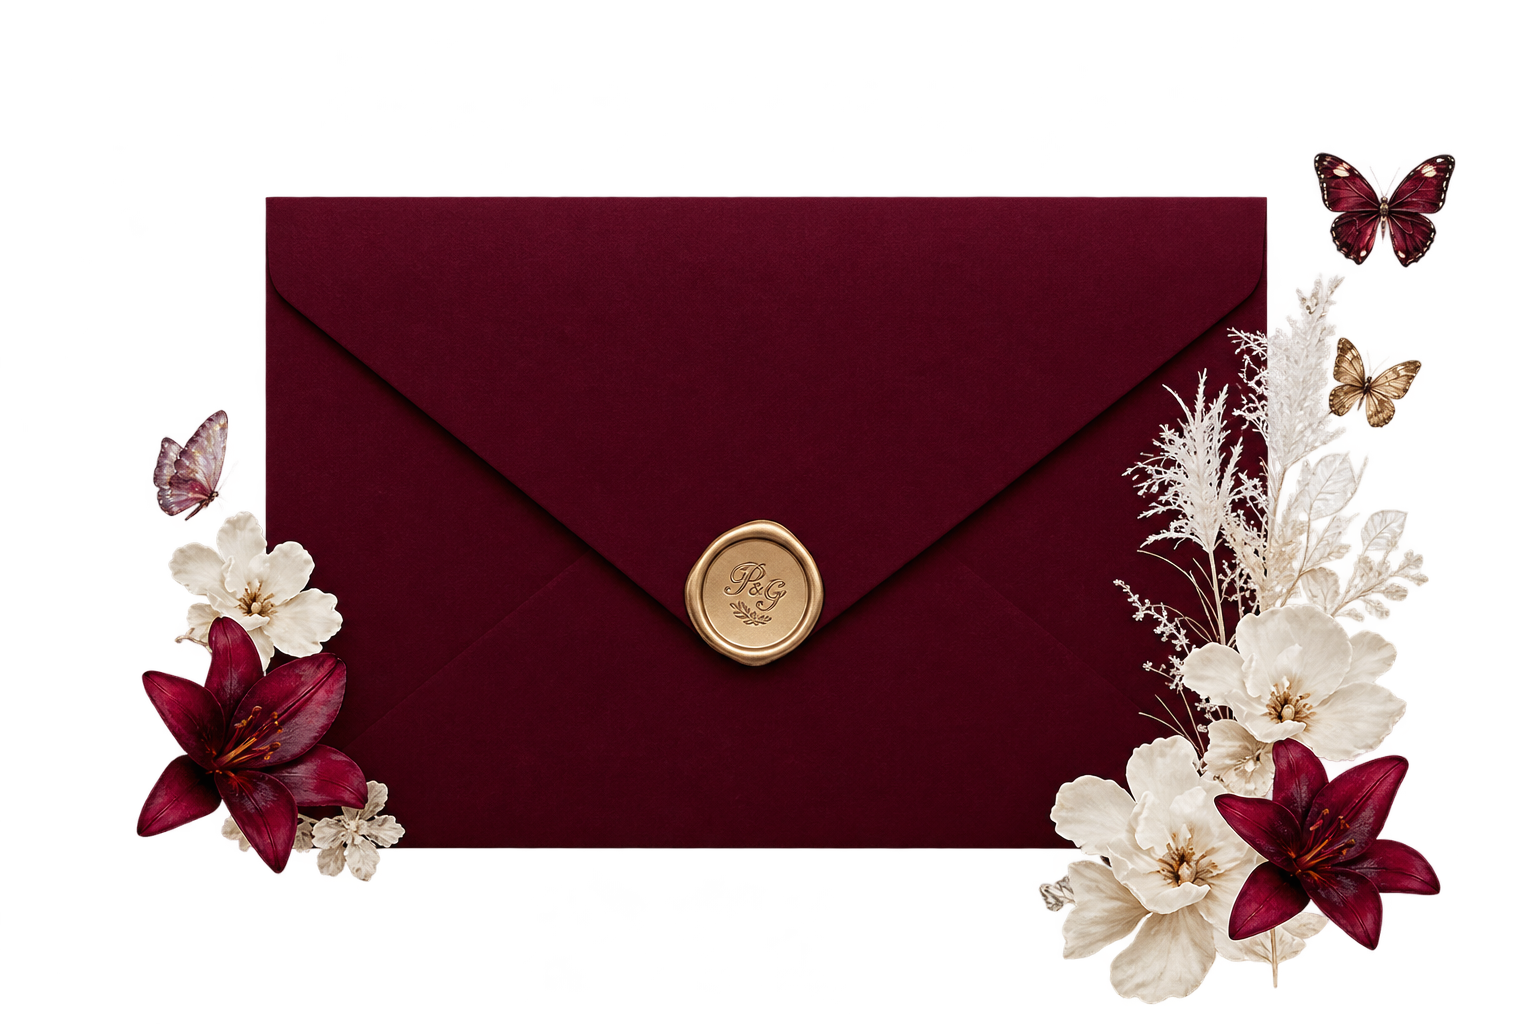
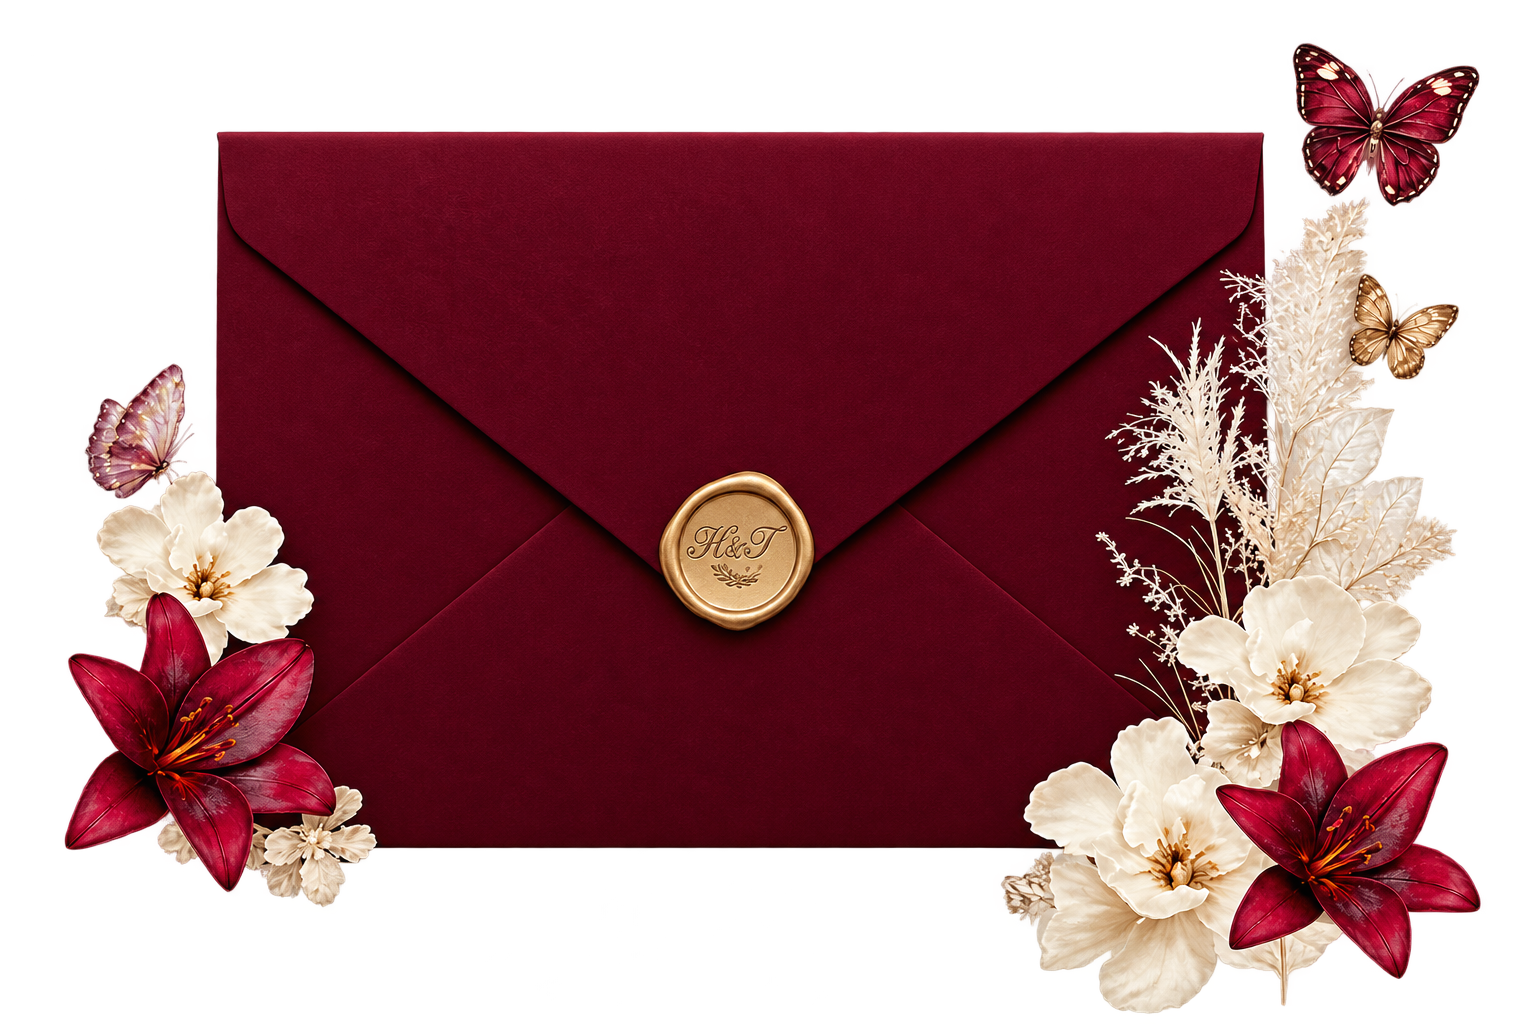
feat: add new secondary wedding envelope background image

diff --git a/index.html b/index.html
@@ -728,32 +728,30 @@
 
       <div class="gift-dialog-duo">
         <article class="gift-dialog-card">
-          <h3 class="gift-dialog-card-role">Chú rể</h3>
+          <h3 class="gift-dialog-card-role">Nhà trai</h3>
           <div class="gift-dialog-qr">
-            <img src="https://api.vietqr.io/image/970422-0388147366-compact2.jpg?accountName=DAO%20VAN%20HUNG&amount=0"
-              alt="Mã QR chuyển khoản chú rể Đào Văn Hùng" loading="lazy" width="140" height="140" />
-            <span class="gift-dialog-qr-overlay" aria-hidden="true">Đang chuẩn bị</span>
+            <img src="assets/images/qr-nha-trai-dao-thi-bich-lien.jpg"
+              alt="Mã QR chuyển khoản nhà trai — Đào Thị Bích Liên, Vietcombank" loading="lazy" width="140"
+              height="140" />
           </div>
-          <p class="gift-dialog-name">ĐÀO VĂN HÙNG</p>
-          <p class="gift-dialog-bank">MB Bank</p>
-          <p class="gift-dialog-account">03xxxxxxxx</p>
-          <button type="button" class="gift-dialog-copy" onclick="copyText('0388147366', this)">
+          <p class="gift-dialog-name">ĐÀO THỊ BÍCH LIÊN</p>
+          <p class="gift-dialog-bank">Vietcombank · em gái chú rể</p>
+          <p class="gift-dialog-account">1064107744</p>
+          <button type="button" class="gift-dialog-copy" onclick="copyText('1064107744', this)">
             Sao chép số TK
           </button>
         </article>
 
         <article class="gift-dialog-card">
-          <h3 class="gift-dialog-card-role">Cô dâu</h3>
+          <h3 class="gift-dialog-card-role">Nhà gái</h3>
           <div class="gift-dialog-qr">
-            <img
-              src="https://api.vietqr.io/image/970422-0988888888-compact2.jpg?accountName=HOANG%20THI%20THU%20TRANG&amount=0"
-              alt="Mã QR chuyển khoản cô dâu Hoàng Thị Thu Trang" loading="lazy" width="140" height="140" />
-            <span class="gift-dialog-qr-overlay" aria-hidden="true">Đang chuẩn bị</span>
+            <img src="assets/images/qr-nha-gai-hoang-van-vinh.jpg"
+              alt="Mã QR chuyển khoản nhà gái — Hoàng Văn Vịnh, HDBank" loading="lazy" width="140" height="140" />
           </div>
-          <p class="gift-dialog-name">HOÀNG THỊ THU TRANG</p>
-          <p class="gift-dialog-bank">MB Bank</p>
-          <p class="gift-dialog-account">09xxxxxxxx</p>
-          <button type="button" class="gift-dialog-copy" onclick="copyText('0988888888', this)">
+          <p class="gift-dialog-name">HOÀNG VĂN VỊNH</p>
+          <p class="gift-dialog-bank">HDBank · bố cô dâu</p>
+          <p class="gift-dialog-account">143704070002441</p>
+          <button type="button" class="gift-dialog-copy" onclick="copyText('143704070002441', this)">
             Sao chép số TK
           </button>
         </article>

diff --git a/assets/js/invite-config.js b/assets/js/invite-config.js
@@ -66,9 +66,9 @@ export const eventModes = {
     host: 'Gia Đình & Bạn Bè Miền Nam',
     dateText: 'Thứ Bảy, ngày 21 tháng 11 năm 2026',
     lunarDate: 'Tức ngày 13 tháng 10 năm Bính Ngọ',
-    targetDate: '2026-11-21T18:00:00',
-    welcomeTime: '18:00',
-    partyTime: '19:00',
+    targetDate: '2026-11-21T16:30:00',
+    welcomeTime: '16:30',
+    partyTime: '18:00',
     venue: 'Tiệc Miền Nam',
     address: 'Theo link chỉ đường Google Maps',
     mapLink: 'https://maps.app.goo.gl/HHXffvHSaTWDwt1f8',
